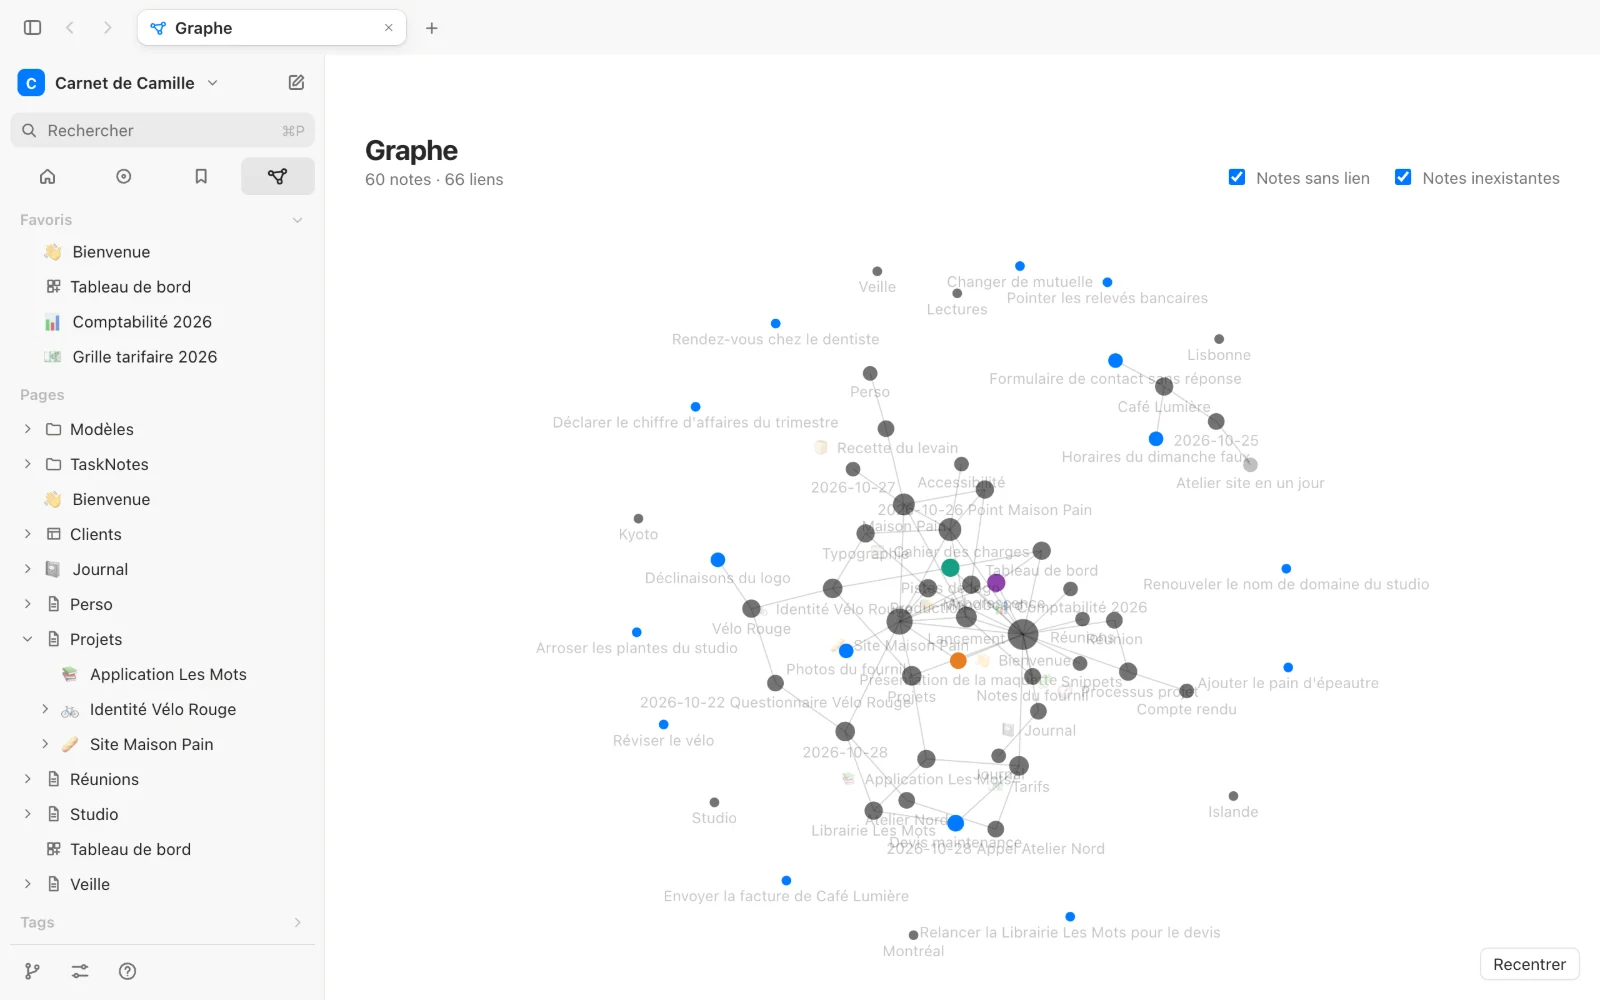
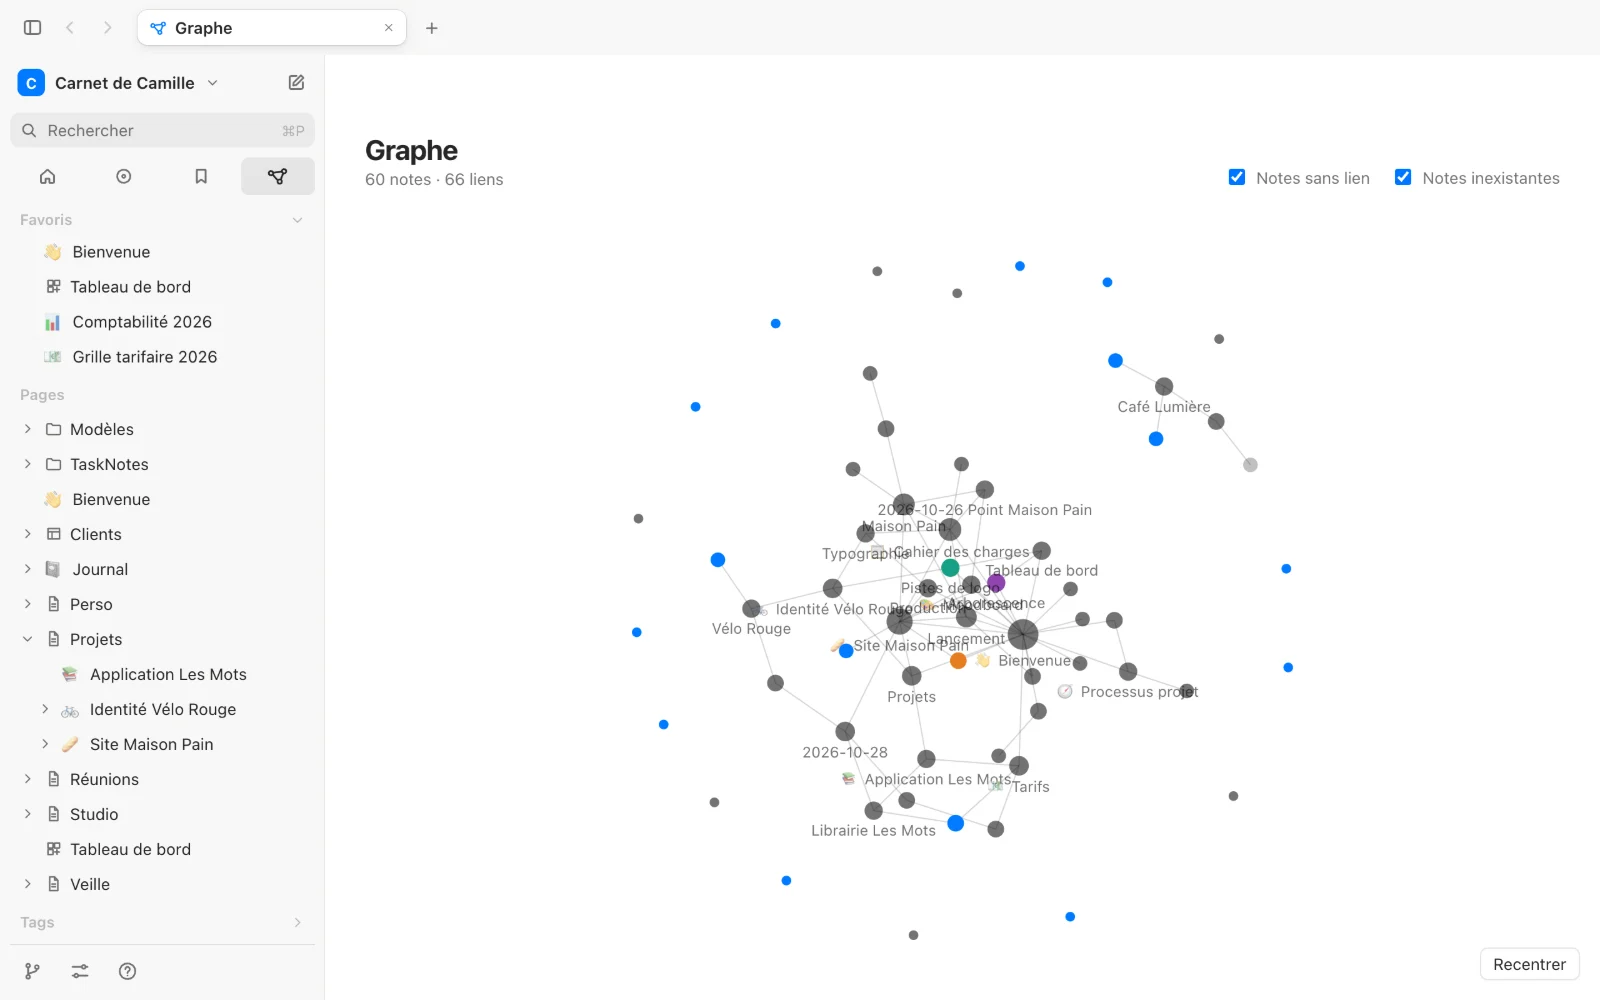
Finitions : menu des onglets, graphe, dessins, réglages des tâches, menus des fenêtres
- Clic droit sur un onglet : fermer les autres onglets, fermer les onglets à droite (closeTabs)
- Graphe : les titres des notes les plus liées d'abord, les autres en zoomant
- Excalidraw sur les remplissages neutres de l'app
- Réglages › Tâches : introduction hors de la carte, icône pour le statut terminé
- Menus ouverts dans une fenêtre (filtres de la recherche, dates) opaques au lieu de transparents

diff --git a/src/SettingsPage.tsx b/src/SettingsPage.tsx
@@ -371,17 +371,17 @@ export function SettingsPage({
         )}
         {category === "tasks" && (
           <>
+            <p className="settings-caption">
+              {tasks.fromPlugin
+                ? "Les tâches suivent les réglages du plugin TaskNotes de ce vault (lus dans .obsidian, jamais modifiés). Changez-les dans Obsidian."
+                : "Les tâches suivent le format du plugin TaskNotes, avec ses réglages par défaut : installez-le dans Obsidian pour les changer."}
+            </p>
             <section className="settings-card">
-              <p className="settings-note">
-                {tasks.fromPlugin
-                  ? "Les tâches suivent les réglages du plugin TaskNotes de ce vault (lus dans .obsidian, jamais modifiés). Changez-les dans Obsidian."
-                  : "Les tâches suivent le format du plugin TaskNotes, avec ses réglages par défaut : installez-le dans Obsidian pour les changer."}
-              </p>
               <Row label="Dossier des nouvelles tâches">
-                <code>{tasks.folder || "Racine du vault"}</code>
+                <code className="settings-value">{tasks.folder || "Racine du vault"}</code>
               </Row>
               <Row label="Une tâche porte" help={tasks.identification === "tag" ? "Les notes avec ce tag dans leurs propriétés, où qu'elles soient." : "Les notes avec cette propriété."}>
-                <code>{tasks.identification === "tag" ? `#${tasks.tag}` : `${tasks.property.name}: ${tasks.property.value}`}</code>
+                <code className="settings-value">{tasks.identification === "tag" ? `#${tasks.tag}` : `${tasks.property.name}: ${tasks.property.value}`}</code>
               </Row>
             </section>
             <section className="settings-card">
@@ -390,7 +390,7 @@ export function SettingsPage({
                   {tasks.statuses.map((s) => (
                     <span key={s.value} className="task-tag neutral">
                       <span className="board-dot" style={{ background: s.color }} /> {s.label}
-                      {s.done ? " ✓" : ""}
+                      {s.done && <Icon name="check" size={12} label="statut terminé" />}
                     </span>
                   ))}
                 </div>

diff --git a/src/hooks/useTabs.ts b/src/hooks/useTabs.ts
@@ -126,12 +126,14 @@ export function useTabs(context: TabsContext) {
     [activate],
   );
 
-  const closeTab = useCallback(
-    async (id: string) => {
+  /** Closes some tabs (one, the others, those on the right); the active one saves first, and the next one takes its place. */
+  const closeTabs = useCallback(
+    async (ids: string[]) => {
       const list = tabsRef.current;
-      const index = list.findIndex((t) => t.id === id);
-      if (index < 0) return;
-      const closingActive = id === activeRef.current;
+      const closing = new Set(ids.filter((id) => list.some((t) => t.id === id)));
+      if (closing.size === 0) return;
+      const active = activeRef.current;
+      const closingActive = closing.has(active);
       if (closingActive) {
         try {
           await latest.current.saveNow();
@@ -140,19 +142,22 @@ export function useTabs(context: TabsContext) {
           return;
         }
       }
-      tabState.current.delete(id);
-      let remaining = list.filter((t) => t.id !== id);
+      for (const id of closing) tabState.current.delete(id);
+      const index = list.findIndex((t) => t.id === active);
+      let remaining = list.filter((t) => !closing.has(t.id));
       if (remaining.length === 0) remaining = [{ id: newTabId(), path: null }];
       tabsRef.current = remaining;
       setTabs(remaining);
       if (closingActive) {
         // The tab being closed keeps no state: the next one starts from its own.
-        activeRef.current = id;
-        await activate(remaining[Math.min(index, remaining.length - 1)].id);
+        const next = list.slice(index).find((t) => !closing.has(t.id)) ?? remaining[remaining.length - 1];
+        await activate(next.id);
       }
     },
     [activate],
   );
+
+  const closeTab = useCallback((id: string) => closeTabs([id]), [closeTabs]);
 
   /** A tab joined to another (split view) leaves no history behind. */
   const forgetTab = (id: string) => tabState.current.delete(id);
@@ -270,6 +275,7 @@ export function useTabs(context: TabsContext) {
     switchTab,
     newTab,
     closeTab,
+    closeTabs,
     forgetTab,
     reorderTab,
     goBack,

diff --git a/src/graph/GraphView.tsx b/src/graph/GraphView.tsx
@@ -30,6 +30,9 @@ export function GraphView({ graph, onOpen, compact = false }: { graph: VaultGrap
     const container = box.current!;
     const ctx = canvas.getContext("2d")!;
     const nodes: SimNode[] = graph.nodes.map((node) => ({ node, r: Math.min(16, 3.5 + Math.sqrt(node.degree) * 1.8) }));
+    /** The most linked notes (the top fifth, at least 3 links): their titles show from a farther zoom. */
+    const radii = nodes.map((n) => n.r).sort((a, b) => b - a);
+    const hubRadius = Math.max(3.5 + Math.sqrt(3) * 1.8, radii[Math.floor(radii.length / 5)] ?? Infinity);
     const byId = new Map(nodes.map((n) => [n.node.id, n]));
     const links: SimLink[] = graph.edges.map((e) => ({ source: byId.get(e.source)!, target: byId.get(e.target)! }));
     const neighbours = new Map<SimNode, Set<SimNode>>(nodes.map((n) => [n, new Set([n])]));
@@ -107,13 +110,17 @@ export function GraphView({ graph, onOpen, compact = false }: { graph: VaultGrap
         ctx.fill();
       }
 
-      // Titles fade in with the zoom; the hovered note and its neighbours always have theirs.
-      const zoomAlpha = Math.max(0, Math.min(1, (view.k - (compact ? 1.4 : 0.9)) / 0.5));
+      // Titles fade in with the zoom: the most linked notes first, the others closer in (no wall of overlapping titles);
+      // the hovered note and its neighbours always have theirs.
+      const base = compact ? 1.4 : 0.9;
+      const fade = (from: number) => Math.max(0, Math.min(1, (view.k - from) / 0.5));
+      const hubAlpha = fade(base - 0.3);
+      const zoomAlpha = fade(base + 0.6);
       ctx.font = `${12 / view.k}px -apple-system, BlinkMacSystemFont, system-ui, sans-serif`;
       ctx.textAlign = "center";
       ctx.textBaseline = "top";
       for (const n of nodes) {
-        const alpha = lit ? (lit.has(n) ? 1 : 0) : zoomAlpha;
+        const alpha = lit ? (lit.has(n) ? 1 : 0) : n.r >= hubRadius ? hubAlpha : zoomAlpha;
         if (alpha <= 0) continue;
         ctx.globalAlpha = alpha;
         ctx.fillStyle = n === hover ? c.text : c.muted;

diff --git a/src/menus.ts b/src/menus.ts
@@ -83,6 +83,9 @@ export interface TabMenuContext {
   join: () => void;
   toggleSplit: () => void;
   close: () => void;
+  /** The other tabs, and those on the right of this one; absent when there are none. */
+  closeOthers?: () => void;
+  closeRight?: () => void;
 }
 
 /** A tab: the split view's actions, then closing it. */
@@ -98,7 +101,11 @@ export function tabMenu(c: TabMenuContext): MenuItem[] {
   } else if (c.isActive && c.otherPage) {
     items.push({ label: "Diviser avec l'onglet suivant", icon: "split", run: c.toggleSplit });
   }
-  items.push({ label: "Fermer l'onglet", icon: "close", run: c.close });
+  // Below the split view's actions, the closings form their own group.
+  const section = items.length > 0 ? "Fermer" : undefined;
+  items.push({ section, label: "Fermer l'onglet", icon: "close", shortcut: "⌘W", run: c.close });
+  if (c.closeOthers) items.push({ section, label: "Fermer les autres onglets", icon: "close", run: c.closeOthers });
+  if (c.closeRight) items.push({ section, label: "Fermer les onglets à droite", icon: "close", run: c.closeRight });
   return items;
 }
 

diff --git a/src/styles/drawing.css b/src/styles/drawing.css
@@ -43,12 +43,25 @@
   --island-bg-color: var(--bg-elevated);
   --border-radius-lg: 10px;
   --shadow-island: var(--shadow-menu);
+  /* Its buttons and panels on the app's neutral fills, not Excalidraw's lavender. */
+  --color-surface-lowest: var(--bg-elevated);
+  --color-surface-low: var(--bg-elevated);
+  --color-surface-mid: var(--hover);
+  --color-surface-high: var(--selected);
+  --button-hover-bg: var(--hover);
+  --button-active-bg: var(--selected);
 }
 
 .drawing-pane .excalidraw.theme--dark {
   --color-primary: var(--accent);
   --color-primary-light: var(--accent-soft);
   --island-bg-color: var(--bg-elevated);
+  --color-surface-lowest: var(--bg-elevated);
+  --color-surface-low: var(--bg-elevated);
+  --color-surface-mid: var(--hover);
+  --color-surface-high: var(--selected);
+  --button-hover-bg: var(--hover);
+  --button-active-bg: var(--selected);
 }
 
 /* The library (and its "browse libraries" site) is not offered: it has no place in the vault. */

diff --git a/src/App.tsx b/src/App.tsx
@@ -311,6 +311,7 @@ export function App() {
     switchTab,
     newTab,
     closeTab,
+    closeTabs,
     forgetTab,
     reorderTab,
     goBack,
@@ -1332,6 +1333,8 @@ export function App() {
       join: () => joinTab(id),
       toggleSplit,
       close: () => void closeTab(id),
+      closeOthers: tabs.length > 1 ? () => void closeTabs(tabs.filter((t) => t.id !== id).map((t) => t.id)) : undefined,
+      closeRight: tabs.findIndex((t) => t.id === id) < tabs.length - 1 ? () => void closeTabs(tabs.slice(tabs.findIndex((t) => t.id === id) + 1).map((t) => t.id)) : undefined,
     });
   };
 

diff --git a/src/styles/search.css b/src/styles/search.css
@@ -392,6 +392,14 @@
   width: 260px;
 }
 
+/* A menu opened inside a glass window (the filters of the search, their values, a date): its own blur has
+   nothing to blur there (the window is the backdrop), so it is opaque, or the results show through it. */
+.modal :is(.db-popover, .sidebar-menu, .date-picker) {
+  background: var(--bg-elevated);
+  -webkit-backdrop-filter: none;
+  backdrop-filter: none;
+}
+
 .search-menu-list {
   display: flex;
   flex-direction: column;

diff --git a/src/styles/settings.css b/src/styles/settings.css
@@ -247,3 +247,17 @@
   font-size: 13px;
   font-variant-numeric: tabular-nums;
 }
+
+/* A category's introduction, between its title and its first card. */
+.settings-caption {
+  margin: -4px 0 12px;
+  max-width: 64ch;
+  color: var(--muted);
+  font-size: 13px;
+  line-height: 1.45;
+}
+
+code.settings-value {
+  font-family: var(--font-mono);
+  font-size: 12px;
+}

diff --git a/CLAUDE.md b/CLAUDE.md
@@ -74,6 +74,7 @@ Sur demande, **Claude fait la release** (version, CHANGELOG, commit, tag, push) 
 
 ## État actuel (28 octobre 2026)
 
+- Branche `feature/finitions-2` : onglets fermés par lot (`closeTabs` dans `useTabs`, « Fermer les autres / à droite » dans `tabMenu`), titres du graphe d'abord pour les notes les plus liées (`hubRadius`), Excalidraw sur les remplissages neutres de l'app, introduction des Réglages › Tâches hors de la carte, menus opaques dans les fenêtres en verre (`.modal :is(.db-popover, .sidebar-menu, .date-picker)`). Testé dans Chrome seulement.
 - 0.28.0 (« Le carnet d'abord », branche `feature/carnet-dabord` fusionnée ; style inchangé, voir `DESIGN.md`, contexte produit dans `PRODUCT.md`) : barre latérale recentrée sur les pages (un champ Rechercher, `SearchScope` « Titres | Contenu » dans `QuickSwitcher`/`VaultSearch`, vues et pied en rangées d'icônes `IconTab`, Favoris repliables, Documentation dans le menu Aide) ; barre de page : Plan, Mode lecture, Pleine largeur, Mode focus, Markdown brut toujours visibles, « … » (`pageBarMenu` : sections, coches, raccourcis dans `PopoverMenu`) pour la correction, l'historique et les exports ; la vue Tâches s'affiche « Tâches » sans déplier TaskNotes dans l'arbre. Puis : onglets de même forme, plus de titre en double sur les vues, Accueil (création en rangée, Récents masqués vides, priorités Tasks en points via `AgendaItem.priority`), Réglages (police de l'app et police des notes séparées, `noteFont` et `--font-note`/`--font-note-heading`, tuiles `FontPicker` ; section À propos, version lue dans `package.json`), dashboard (graphique à la hauteur du widget par `container-type: size`, titre de la base intégrée réduit à son icône), liens des bases intégrées comme dans la base. Testé dans Chrome seulement.
 - 0.27.0 : canevas copier/coller/dupliquer (`pickCards`, `cloneCards` dans `canvas/format.ts`, menus au clic droit), vue retenue par onglet (`viewports`), netteté au zoom (`useSharpBoard` : pixels entiers, `will-change` pendant le zoom, zoom ajusté au repos) **encore floue par moments dans l'app** ; « Coller sans mise en forme » (`editor/contextMenu.ts`, menu natif Tauri, texte par `tauri-plugin-clipboard-manager` via `readClipboardText`/`writeClipboardText` de `platform.ts`) ; tâches créées sans fenêtre (`NEW_TASK_TITLE`, `TaskTitle` dans `TaskView.tsx`), clic droit pour supprimer ; ⌘P cherche titres, canevas et bases. Menu natif testé seulement par le code, le reste dans Chrome.
 - 0.26.0 : plan et recherche dans la documentation (`docs/DocsPage.tsx`), onglets sortis dans `hooks/useTabs.ts`, front matter lu par `splitFrontmatter`/`noteProperties`, `isoDay` (`dates.ts`) et `useClickOutside` partagés, recherche dans les notes ouverte sur le mot (saut après la pose du défilement). Testé dans Chrome seulement.

diff --git a/src/docs/documentation.md b/src/docs/documentation.md
@@ -81,6 +81,7 @@ Chaque page s'ouvre dans un onglet : `⌘T` nouvel onglet, `⌘W` fermer, `⌘1`
 
 - Clic droit sur un autre onglet : « Afficher à droite de… » ; sur l'onglet actif : « Diviser avec l'onglet suivant ».
 - Clic droit sur l'onglet double : échanger les côtés, séparer en deux onglets, fermer la page de droite. Fermer l'onglet ferme les deux.
+- Clic droit sur un onglet : **Fermer l'onglet** (`⌘W`), **Fermer les autres onglets** et **Fermer les onglets à droite** (la note ouverte est enregistrée avant).
 - La page de droite a la même barre d'outils que celle de gauche, plus trois boutons : ouvrir dans son propre onglet, échanger les côtés, fermer.
 - Comme à gauche, « Ajouter une icône » s'affiche au survol au-dessus de son titre.
 - Le séparateur se déplace à la souris (la largeur est retenue). `⌘⌥\` ouvre ou ferme le panneau de droite.
